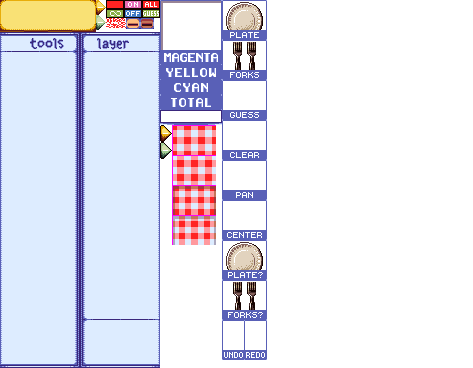
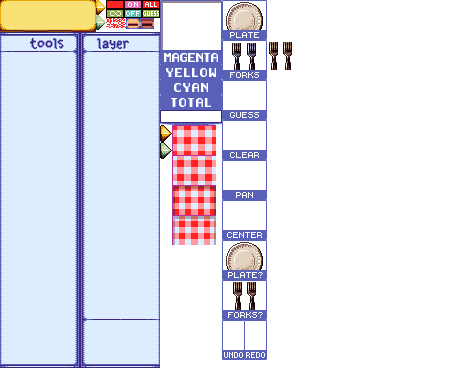
Added new spritework.

diff --git a/Picnix/src/engine/Input.java b/Picnix/src/engine/Input.java
@@ -41,6 +41,14 @@ public class Input implements KeyListener, MouseListener, MouseMotionListener, M
 				(instance = new Input()) : instance;
 	}
 	
+	/**
+	 * Used to find the index in the circular array
+	 * given a relative index. Basically, does non-negative modulus.
+	 */
+	private static int getWrappedHead(int rin) {
+		return (rin + RECORD_SIZE) % RECORD_SIZE;
+	}
+	
 	/* ~~~
 	 * 
 	 * INPUT IMPLEMENTATION
@@ -465,7 +473,7 @@ public class Input implements KeyListener, MouseListener, MouseMotionListener, M
 		// can't lookback more than records store
 		if (lookback > RECORD_SIZE)
 			return -1;
-		int lookHead = (motionRecordHead - lookback) % RECORD_SIZE;
+		int lookHead = getWrappedHead(motionRecordHead - lookback);
 		return motionRecordsTime[lookHead] != 0 ? motionRecordsX[lookHead] : -1;
 	}
 	
@@ -480,7 +488,7 @@ public class Input implements KeyListener, MouseListener, MouseMotionListener, M
 		// can't lookback more than records store
 		if (lookback > RECORD_SIZE)
 			return -1;
-		int lookHead = (motionRecordHead - lookback) % RECORD_SIZE;
+		int lookHead = getWrappedHead(motionRecordHead - lookback);
 		return motionRecordsTime[lookHead] != 0 ? motionRecordsY[lookHead] : -1;
 	}
 	
@@ -495,7 +503,7 @@ public class Input implements KeyListener, MouseListener, MouseMotionListener, M
 		// can't lookback more than records store
 		if (lookback > RECORD_SIZE)
 			return -1;
-		int lookHead = (motionRecordHead - lookback) % RECORD_SIZE;
+		int lookHead = getWrappedHead(motionRecordHead - lookback);
 		return motionRecordsTime[lookHead] != 0 ? motionRecordsTime[lookHead] : -1;
 	}
 
@@ -546,7 +554,7 @@ public class Input implements KeyListener, MouseListener, MouseMotionListener, M
 		// can't lookback more than records store
 		if (lookback > RECORD_SIZE)
 			return -1;
-		int lookHead = (keyPressRecordHead - lookback) % RECORD_SIZE;
+		int lookHead = getWrappedHead(keyPressRecordHead - lookback);
 		return keyPressTimeRecords[lookHead] != 0 ? keyPressButtonRecords[lookHead] : -1;
 	}
 	
@@ -561,7 +569,7 @@ public class Input implements KeyListener, MouseListener, MouseMotionListener, M
 		// can't lookback more than records store
 		if (lookback > RECORD_SIZE)
 			return -1;
-		int lookHead = (keyPressRecordHead - lookback) % RECORD_SIZE;
+		int lookHead = getWrappedHead(keyPressRecordHead - lookback);
 		return keyPressTimeRecords[lookHead] != 0 ? keyPressTimeRecords[lookHead] : -1;
 	}
 	
@@ -576,7 +584,7 @@ public class Input implements KeyListener, MouseListener, MouseMotionListener, M
 		// can't lookback more than records store
 		if (lookback > RECORD_SIZE)
 			return -1;
-		int lookHead = (keyReleaseRecordHead - lookback) % RECORD_SIZE;
+		int lookHead = getWrappedHead(keyReleaseRecordHead - lookback);
 		return keyReleaseTimeRecords[lookHead] != 0 ? keyReleaseButtonRecords[lookHead] : -1;
 	}
 	
@@ -591,7 +599,7 @@ public class Input implements KeyListener, MouseListener, MouseMotionListener, M
 		// can't lookback more than records store
 		if (lookback > RECORD_SIZE)
 			return -1;
-		int lookHead = (keyReleaseRecordHead - lookback) % RECORD_SIZE;
+		int lookHead = getWrappedHead(keyReleaseRecordHead - lookback);
 		return keyReleaseTimeRecords[lookHead] != 0 ? keyReleaseTimeRecords[lookHead] : -1;
 	}
 	
@@ -684,7 +692,7 @@ public class Input implements KeyListener, MouseListener, MouseMotionListener, M
 		// can't lookback more than records store
 		if (lookback > RECORD_SIZE)
 			return -1;
-		int lookHead = (mousePressRecordHead - lookback) % RECORD_SIZE;
+		int lookHead = getWrappedHead(mousePressRecordHead - lookback);
 		return mousePressTimeRecords[lookHead] != 0 ? mousePressButtonRecords[lookHead] : -1;
 	}
 	
@@ -702,14 +710,14 @@ public class Input implements KeyListener, MouseListener, MouseMotionListener, M
 			return -1;
 		// lookback through all records
 		if (code == ANY_CLICK) {
-			int lookHead = (mousePressRecordHead - lookback) % RECORD_SIZE;
+			int lookHead = getWrappedHead(mousePressRecordHead - lookback);
 			return mousePressTimeRecords[lookHead] != 0 ? mousePressTimeRecords[lookHead] : -1;
 		}
 		// lookback through records that match the code
 		else {
 			int matched = 0;
 			for (int i = 0; i < RECORD_SIZE; i++) {
-				int lookHead = (mousePressRecordHead - i) % RECORD_SIZE;
+				int lookHead = getWrappedHead(mousePressRecordHead - i);
 				int button = mousePressButtonRecords[lookHead];
 				if (button == code)
 					matched++;
@@ -734,14 +742,14 @@ public class Input implements KeyListener, MouseListener, MouseMotionListener, M
 			return -1;
 		// lookback through all records
 		if (code == ANY_CLICK) {
-			int lookHead = (mousePressRecordHead - lookback) % RECORD_SIZE;
+			int lookHead = getWrappedHead(mousePressRecordHead - lookback);
 			return mousePressXPosRecords[lookHead] != 0 ? mousePressXPosRecords[lookHead] : -1;
 		}
 		// lookback through records that match the code
 		else {
 			int matched = 0;
 			for (int i = 0; i < RECORD_SIZE; i++) {
-				int lookHead = (mousePressRecordHead - i) % RECORD_SIZE;
+				int lookHead = getWrappedHead(mousePressRecordHead - i);
 				int button = mousePressButtonRecords[lookHead];
 				if (button == code)
 					matched++;
@@ -767,14 +775,14 @@ public class Input implements KeyListener, MouseListener, MouseMotionListener, M
 		synchronized (this) {
 			// lookback through all records
 			if (code == ANY_CLICK) {
-				int lookHead = (mousePressRecordHead - lookback) % RECORD_SIZE;
+				int lookHead = getWrappedHead(mousePressRecordHead - lookback);
 				return mousePressYPosRecords[lookHead] != 0 ? mousePressYPosRecords[lookHead] : -1;
 			}
 			// lookback through records that match the code
 			else {
 				int matched = 0;
 				for (int i = 0; i < RECORD_SIZE; i++) {
-					int lookHead = (mousePressRecordHead - i) % RECORD_SIZE;
+					int lookHead = getWrappedHead(mousePressRecordHead - i);
 					int button = mousePressButtonRecords[lookHead];
 					if (button == code)
 						matched++;
@@ -798,7 +806,7 @@ public class Input implements KeyListener, MouseListener, MouseMotionListener, M
 		// can't lookback more than records store
 		if (lookback > RECORD_SIZE)
 			return -1;
-		int lookHead = (mouseReleaseRecordHead - lookback) % RECORD_SIZE;
+		int lookHead = getWrappedHead(mouseReleaseRecordHead - lookback);
 		return mouseReleaseTimeRecords[lookHead] != 0 ? mouseReleaseButtonRecords[lookHead] : -1;
 	}
 	
@@ -816,14 +824,14 @@ public class Input implements KeyListener, MouseListener, MouseMotionListener, M
 			return -1;
 		// lookback through all records
 		if (code == ANY_CLICK) {
-			int lookHead = (mouseReleaseRecordHead - lookback) % RECORD_SIZE;
+			int lookHead = getWrappedHead(mouseReleaseRecordHead - lookback);
 			return mouseReleaseTimeRecords[lookHead] != 0 ? mouseReleaseTimeRecords[lookHead] : -1;
 		}
 		// lookback through records that match the code
 		else {
 			int matched = 0;
 			for (int i = 0; i < RECORD_SIZE; i++) {
-				int lookHead = (mouseReleaseRecordHead - i) % RECORD_SIZE;
+				int lookHead = getWrappedHead(mouseReleaseRecordHead - i);
 				int button = mouseReleaseButtonRecords[lookHead];
 				if (button == code)
 					matched++;
@@ -848,14 +856,14 @@ public class Input implements KeyListener, MouseListener, MouseMotionListener, M
 			return -1;
 		// lookback through all records
 		if (code == ANY_CLICK) {
-			int lookHead = (mouseReleaseRecordHead - lookback) % RECORD_SIZE;
+			int lookHead = getWrappedHead(mouseReleaseRecordHead - lookback);
 			return mouseReleaseXPosRecords[lookHead] != 0 ? mouseReleaseXPosRecords[lookHead] : -1;
 		}
 		// lookback through records that match the code
 		else {
 			int matched = 0;
 			for (int i = 0; i < RECORD_SIZE; i++) {
-				int lookHead = (mouseReleaseRecordHead - i) % RECORD_SIZE;
+				int lookHead = getWrappedHead(mouseReleaseRecordHead - i);
 				int button = mouseReleaseButtonRecords[lookHead];
 				if (button == code)
 					matched++;
@@ -880,14 +888,14 @@ public class Input implements KeyListener, MouseListener, MouseMotionListener, M
 			return -1;
 		// lookback through all records
 		if (code == ANY_CLICK) {
-			int lookHead = (mouseReleaseRecordHead - lookback) % RECORD_SIZE;
+			int lookHead = getWrappedHead(mouseReleaseRecordHead - lookback);
 			return mouseReleaseYPosRecords[lookHead] != 0 ? mouseReleaseYPosRecords[lookHead] : -1;
 		}
 		// lookback through records that match the code
 		else {
 			int matched = 0;
 			for (int i = 0; i < RECORD_SIZE; i++) {
-				int lookHead = (mouseReleaseRecordHead - i) % RECORD_SIZE;
+				int lookHead = getWrappedHead(mouseReleaseRecordHead - i);
 				int button = mouseReleaseButtonRecords[lookHead];
 				if (button == code)
 					matched++;
@@ -936,7 +944,7 @@ public class Input implements KeyListener, MouseListener, MouseMotionListener, M
 		// can't lookback more than records store
 		if (lookback > RECORD_SIZE)
 			return -1;
-		int lookHead = (wheelRecordHead - lookback) % RECORD_SIZE;
+		int lookHead = getWrappedHead(wheelRecordHead - lookback);
 		return wheelRecordsTime[lookHead] != 0 ? wheelRecordsAmount[lookHead] : -1;
 	}
 	
@@ -951,7 +959,7 @@ public class Input implements KeyListener, MouseListener, MouseMotionListener, M
 		// can't lookback more than records store
 		if (lookback > RECORD_SIZE)
 			return -1;
-		int lookHead = (wheelRecordHead - lookback) % RECORD_SIZE;
+		int lookHead = getWrappedHead(wheelRecordHead - lookback);
 		return wheelRecordsTime[lookHead] != 0 ? wheelRecordsTime[lookHead] : -1;
 	}
 	

diff --git a/Picnix/src/resource/bank/ImageBank.java b/Picnix/src/resource/bank/ImageBank.java
@@ -32,6 +32,20 @@ public class ImageBank {
 	public static BufferedImage[] layernames;
 	public static BufferedImage layerprogress;
 	
+	// blanket
+	public static BufferedImage[] plates35;
+	public static BufferedImage[] forks35;
+	public static BufferedImage[] cells35;
+	public static BufferedImage[] plates20;
+	public static BufferedImage[] forks20;
+	public static BufferedImage[] cells20;
+	public static BufferedImage[] plates15;
+	public static BufferedImage[] forks15;
+	public static BufferedImage[] cells15;
+	public static BufferedImage[] plates8;
+	public static BufferedImage[] forks8;
+	public static BufferedImage[] cells8;
+	
 	public static BufferedImage grassback;
 	
 	public static void loadGlobalResources() throws IOException {
@@ -60,6 +74,20 @@ public class ImageBank {
 		layerframe = loadOne(uiSheet, 160, 0, 62, 50);
 		layernames = loadMany(uiSheet, 160, 50, 62, 15, 1, 4);
 		layerprogress = loadOne(uiSheet, 160, 110, 62, 15);
+		// blanket sprite sheet
+		BufferedImage blanketSheet = loadSheet("blanket.png");
+		plates35 = loadMany(blanketSheet, 0, 0, 33, 33, 1, 5);
+		forks35 = loadMany(blanketSheet, 33, 0, 32, 30, 1, 4);
+		cells35 = loadMany(blanketSheet, 0, 165, 35, 35, 1, 3);
+		plates20 = loadMany(blanketSheet, 66, 0, 18, 18, 1, 5);
+		forks20 = loadMany(blanketSheet, 84, 0, 19, 17, 1, 4);
+		cells20 = loadMany(blanketSheet, 66, 90, 20, 20, 1, 3);
+		plates15 = loadMany(blanketSheet, 106, 0, 15, 15, 1, 5);
+		forks15 = loadMany(blanketSheet, 121, 0, 13, 14, 1, 4);
+		cells15 = loadMany(blanketSheet, 106, 75, 15, 15, 1, 3);
+		plates8 = loadMany(blanketSheet, 136, 0, 8, 8, 1, 5);
+		forks8 = loadMany(blanketSheet, 144, 0, 8, 8, 1, 2);
+		cells8 = loadMany(blanketSheet, 144, 16, 8, 8, 1, 3);
 	}
 	
 	private static BufferedImage loadSheet(String src) throws IOException {

diff --git a/Picnix/src/picnic/Blanket.java b/Picnix/src/picnic/Blanket.java
@@ -47,7 +47,7 @@ public class Blanket extends Element {
 		cellSize =  msize <= 5 ? CELL_SIZE_5x5 :
 					msize <= 10 ? CELL_SIZE_10x10 :
 					msize <= 15 ? CELL_SIZE_15x15 :
-					/*msize<=20?*/ CELL_SIZE_20x20;
+					/*msize>15?*/ CELL_SIZE_20x20;
 	}
 	
 	public int getPixelWidth() {
@@ -103,16 +103,14 @@ public class Blanket extends Element {
 		g.translate(getDisplayX(), getDisplayY());
 		for (int r = 0; r < puzzle.getRows(); r++) {
 			for (int c = 0; c < puzzle.getColumns(); c++) {
-				BufferedImage pic = r % 2 == 0 ? (c % 2 == 0 ? ImageBank.red : ImageBank.pink)
-						: (c % 2 == 0 ? ImageBank.pink : ImageBank.white);
+				BufferedImage pic = r % 2 == 0 ? (c % 2 == 0 ? ImageBank.cells20[0] : ImageBank.cells20[1])
+						: (c % 2 == 0 ? ImageBank.cells20[1] : ImageBank.cells20[2]);
 				g.drawImage(pic, c * cellSize, r * cellSize, cellSize, cellSize, null);
 				if (puzzle.getMark(r, c) == Puzzle.CLEARED) {
-					g.setColor(puzzle.isSolved() ? java.awt.Color.BLUE : java.awt.Color.MAGENTA);
-					g.fillRect(c * cellSize, r * cellSize, cellSize, cellSize);
+					g.drawImage(ImageBank.plates20[0], c * cellSize, r * cellSize, null);
 				}
 				else if (puzzle.getMark(r, c) == Puzzle.FLAGGED) {
-					g.setColor(java.awt.Color.GRAY);
-					g.fillRect(c * cellSize, r * cellSize, cellSize, cellSize);
+					g.drawImage(ImageBank.forks20[0], c * cellSize, r * cellSize, null);
 				}
 			}
 		}

diff --git a/Picnix/src/state/TestScrollState.java b/Picnix/src/state/TestScrollState.java
@@ -25,7 +25,7 @@ public class TestScrollState extends ScrollableState {
 				public void onRelease(int mbutton) {
 					super.onRelease(mbutton);
 					if (!beingHovered()) return;
-					PuzzleState ps = new PuzzleState(new Puzzle(Puzzle.genPuzzle(7, 7)));
+					PuzzleState ps = new PuzzleState(new Puzzle(Puzzle.genPuzzle(10, 10)));
 					Engine.getEngine().openState(ps);
 				}
 				@Override
